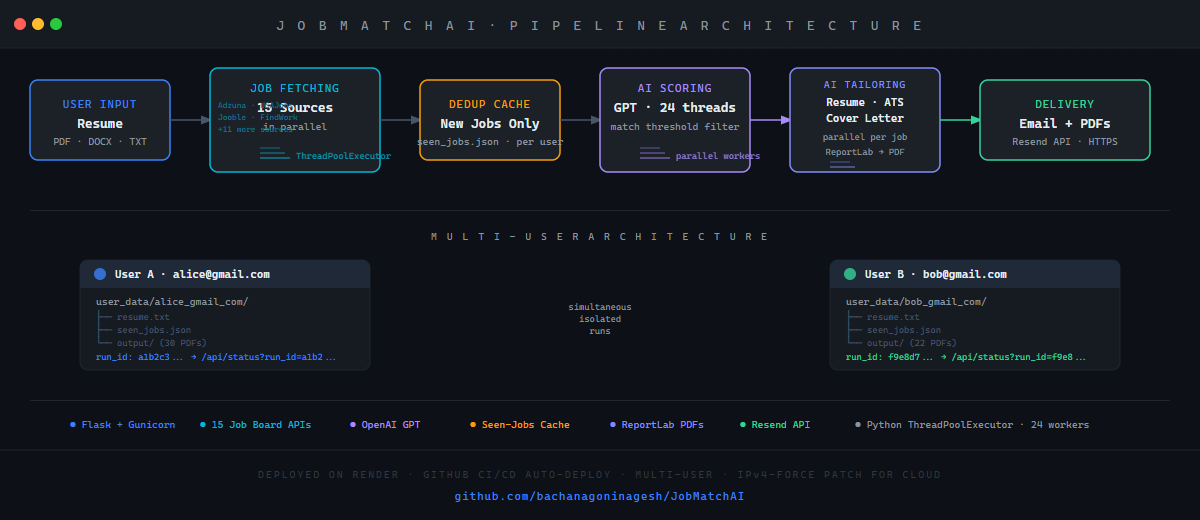
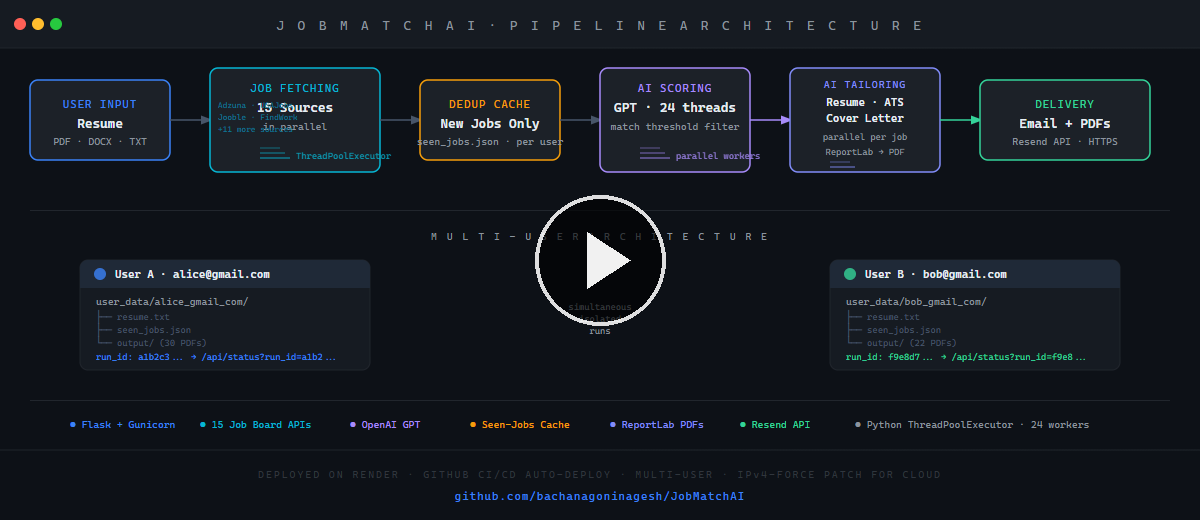
Update portfolio with resume v13: new experience details and 3 new projects

Changed region(s): [[0.4317, 0.3692, 0.555, 0.6462]]

diff --git a/index.html b/index.html
@@ -670,7 +670,7 @@
                 <span class="tag">Render</span>
               </div>
               <div class="hero-actions" style="margin-top: 1rem;">
-                <a class="btn btn-secondary" href="#" target="_blank" rel="noreferrer">Live Demo</a>
+                <a class="btn btn-secondary" href="https://drive.google.com/file/d/1X9tNMC9U9-_fFXIv_UNrXcIvd8sPrY8s/view?usp=sharing" target="_blank" rel="noreferrer">Live Demo</a>
                 <a class="btn btn-secondary" href="https://github.com/bachanagoninagesh/JobMatchAI" target="_blank" rel="noreferrer">View Project</a>
               </div>
             </div>
@@ -696,7 +696,7 @@
                 <span class="tag">Ensemble Forecasting</span>
               </div>
               <div class="hero-actions" style="margin-top: 1rem;">
-                <a class="btn btn-secondary" href="#" target="_blank" rel="noreferrer">Live Demo</a>
+                <a class="btn btn-secondary" href="https://drive.google.com/file/d/12sK5ukIODPwpVJe5fXiMlZNk8xLcd_Z9/view?usp=sharing" target="_blank" rel="noreferrer">Live Demo</a>
                 <a class="btn btn-secondary" href="https://github.com/bachanagoninagesh/Stock-Analyzer-AI-Agent" target="_blank" rel="noreferrer">View Project</a>
               </div>
             </div>
